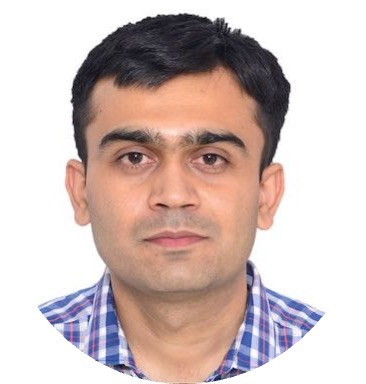
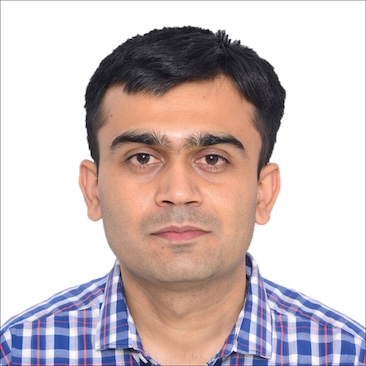
updated profile pic, news.html

diff --git a/_includes/news.html b/_includes/news.html
@@ -1,30 +1,30 @@
-          
-          <div class="news">
-            {% if site.news != blank -%} 
-            {%- assign news_size = site.news | size -%}
-            <div class="table-responsive" {% if site.news_scrollable and news_size > 3 %}style="max-height: 10vw"{% endif %}>
-              <table class="table table-sm table-borderless">
-              {%- assign news = site.news | reverse -%}
-              {% if site.news_limit %}
-              {% assign news_limit = site.news_limit %}
-              {% else %}
-              {% assign news_limit = news_size %}
-              {% endif %}
-              {% for item in news limit: news_limit %} 
-                <tr>
-                  <th scope="row">{{ item.date | date: "%b %-d, %Y" }}</th>
-                  <td>
-                    {% if item.inline -%} 
-                      {{ item.content | remove: '<p>' | remove: '</p>' | emojify }}
-                    {%- else -%} 
-                      <a class="news-title" href="{{ item.url | relative_url }}">{{ item.title }}</a>
-                    {%- endif %} 
-                  </td>
-                </tr>
-              {%- endfor %} 
-              </table>
-            </div>
-          {%- else -%} 
-            <p>No news so far...</p>
-          {%- endif %} 
-          </div>
+<div class="news">
+  <h2>news</h2>
+  {% if site.news != blank -%}
+  {%- assign news_size = site.news | size -%}
+  <div class="table-responsive" {% if site.news_scrollable and news_size> 3 %}style="max-height: 10vw"{% endif %}>
+    <table class="table table-sm table-borderless">
+      {%- assign news = site.news | reverse -%}
+      {% if site.news_limit %}
+      {% assign news_limit = site.news_limit %}
+      {% else %}
+      {% assign news_limit = news_size %}
+      {% endif %}
+      {% for item in news limit: news_limit %}
+      <tr>
+        <th scope="row">{{ item.date | date: "%b %-d, %Y" }}</th>
+        <td>
+          {% if item.inline -%}
+          {{ item.content | remove: '<p>' | remove: '</p>' | emojify }}
+          {%- else -%}
+          <a class="news-title" href="{{ item.url | relative_url }}">{{ item.title }}</a>
+          {%- endif %}
+        </td>
+      </tr>
+      {%- endfor %}
+    </table>
+  </div>
+  {%- else -%}
+  <p>No news so far...</p>
+  {%- endif %}
+</div>

diff --git a/_pages/about.md b/_pages/about.md
@@ -8,7 +8,7 @@ subtitle: Researcher @ University College London (UCL).
 profile:
   align: right
   image: prof_pic.jpg
-  image_circular: true # crops the image to make it circular
+  image_circular: false # crops the image to make it circular
   address: >
     <p>Room: 3.05</p>
     <p>169 Euston Road</p>

diff --git a/_pages/news.md b/_pages/news.md
@@ -2,6 +2,8 @@
 layout: page
 title: news
 permalink: /news/
+nav: true
+nav_order: 4
 ---
 
 {% include news.html %}
